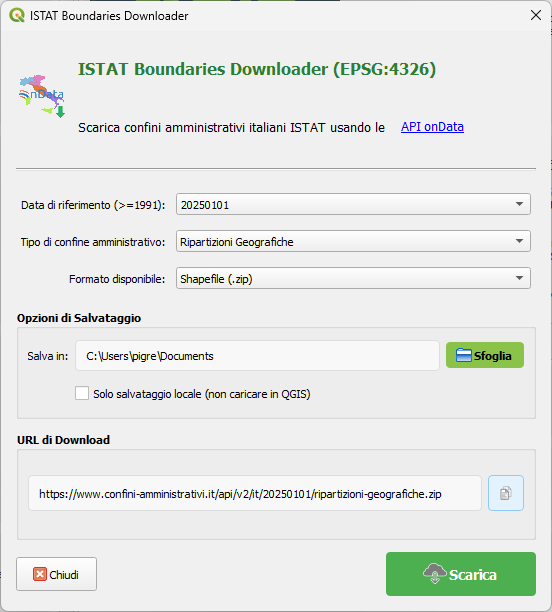
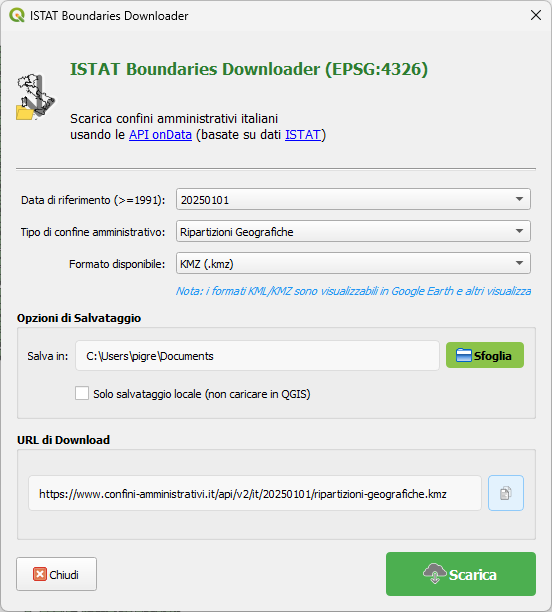
Aggiorna le immagini del plugin e rimuovi file obsoleti

diff --git a/README.md b/README.md
@@ -22,7 +22,7 @@ Un plugin QGIS per scaricare i confini amministrativi italiani forniti dall'ISTA
 - **Copia URL negli appunti** per uso esterno
 - **Barra di progresso** durante il download
 
-![Logo Plugin](./imgs/gui_3.png)
+![Logo Plugin](./imgs/gui.png)
 
 ## Installazione
 
